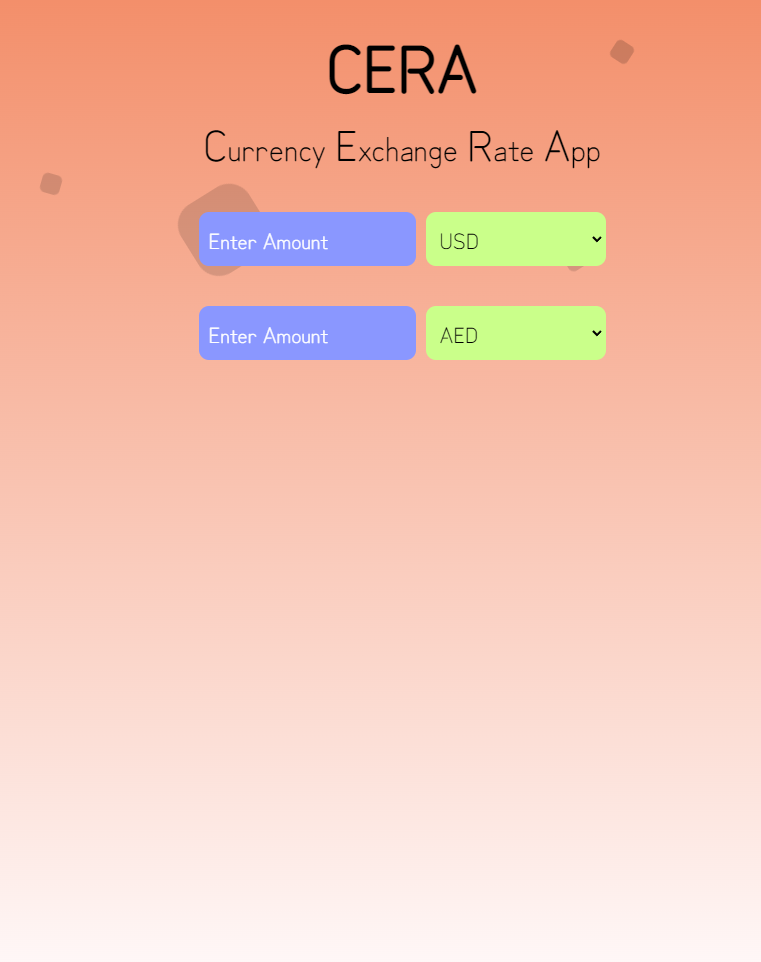
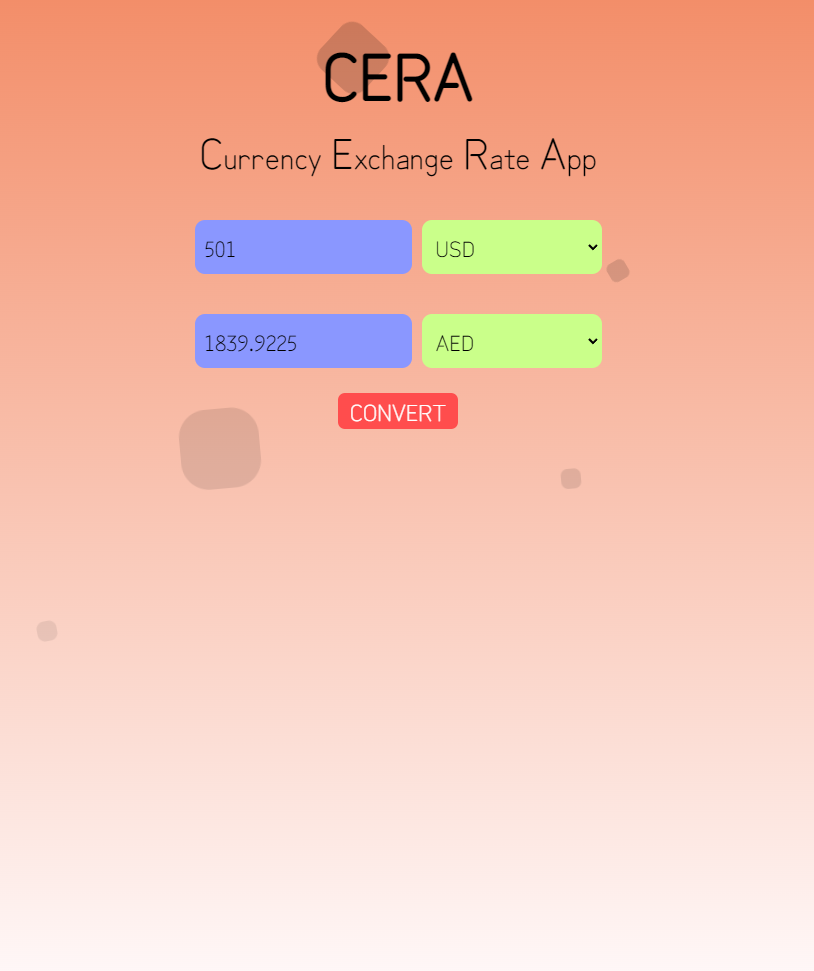
added ability to convert base amount to targeted currency amount

diff --git a/src/Currency.js b/src/Currency.js
@@ -3,6 +3,12 @@ import axios from "axios";
 
 export default function Currency() {
   const [currency, setCurrency] = useState([]);
+  const [baseCurrency, setBaseCurrency] = useState();
+  const [targetCurrency, setTargetCurrency] = useState();
+  const [baseAmount, setBaseAmount] = useState("");
+  const [targetAmount, setTargetAmount] = useState("");
+  const [convertedAmount, setConvertedAmount] = useState("");
+
   async function getCurrencies() {
     //   const getCurrencies = () => {
     await axios
@@ -22,6 +28,40 @@ export default function Currency() {
   useEffect(() => {
     getCurrencies();
   }, []);
+
+  async function convert() {
+    console.log(baseCurrency);
+    console.log(targetCurrency);
+    await axios
+      .get(
+        `https://v6.exchangerate-api.com/v6/0a0fe73c79cc22a52d81823a/pair/${baseCurrency}/${targetCurrency}`
+      )
+      .then((res) => {
+        console.log(res.data.conversion_rate);
+        var rate = Number(res.data.conversion_rate);
+        setConvertedAmount((baseAmount*rate).toFixed(2));
+      })
+      .catch((err) => {
+        console.log(err);
+      });
+  }
+
+  function bCurrency(e) {
+    setBaseCurrency(e.target.value);
+    console.log(baseCurrency);
+  }
+  function cCurrency(e) {
+    setTargetCurrency(e.target.value);
+    console.log(targetCurrency);
+  }
+  function bAmount(e) {
+    setBaseAmount(e.target.value);
+    console.log(baseAmount);
+  }
+  function tAmount(e) {
+    setTargetAmount(e.target.value);
+    console.log(targetAmount);
+  }
 
   return (
     <div>
@@ -44,8 +84,9 @@ export default function Currency() {
           placeholder="Enter Amount"
           type="Number"
           className="sInput"
+          onChange={bAmount.bind(this)}
         ></input>
-        <select name="cars" className="inputOptions">
+        <select className="inputOptions" onChange={bCurrency.bind(this)}>
           <option>Pick a Currency</option>
           {currency.map((c, i) => (
             <option value={c} key={i}>
@@ -55,15 +96,23 @@ export default function Currency() {
         </select>
       </div>
       <div className="converted">
-        <input placeholder="Enter Amount" className="sOutput"></input>
-        <select name="cars" className="convertOptions">
-        <option>Pick a Currency</option>
+        <input
+          placeholder="Enter Amount"
+          className="sOutput"
+          onChange={tAmount.bind(this)}
+          value={convertedAmount}
+        />
+        <select className="convertOptions" onChange={cCurrency.bind(this)}>
+          <option>Pick a Currency</option>
           {currency.map((c, i) => (
             <option value={c} key={i}>
               {c}
             </option>
           ))}
         </select>
+      </div>
+      <div className="convert">
+        <button className="convertBTN" onClick={convert}>CONVERT</button>
       </div>
       {/* <div class="area"> */}
       <ul className="circles">

diff --git a/src/App.css b/src/App.css
@@ -29,15 +29,14 @@
   bottom: -150px;
 }
 
-.circles li:nth-child(1){
+.circles li:nth-child(1) {
   left: 25%;
   width: 80px;
   height: 80px;
   animation-delay: 0s;
 }
 
-
-.circles li:nth-child(2){
+.circles li:nth-child(2) {
   left: 10%;
   width: 20px;
   height: 20px;
@@ -45,14 +44,14 @@
   animation-duration: 12s;
 }
 
-.circles li:nth-child(3){
+.circles li:nth-child(3) {
   left: 70%;
   width: 20px;
   height: 20px;
   animation-delay: 4s;
 }
 
-.circles li:nth-child(4){
+.circles li:nth-child(4) {
   left: 40%;
   width: 60px;
   height: 60px;
@@ -60,7 +59,7 @@
   animation-duration: 18s;
 }
 
-.circles li:nth-child(5){
+.circles li:nth-child(5) {
   left: 65%;
   width: 20px;
   height: 20px;
@@ -120,6 +119,36 @@ body {
   display: flex;
   margin: 10px;
   justify-content: center;
+}
+
+.convert {
+  display: flex;
+  margin: 10px;
+  justify-content: center;
+}
+
+.convertBTN {
+  border: 1px none;
+  border-radius: 7px;
+  padding-left: 12px;
+  padding-right: 12px;
+  font-size: 23px;
+  background-color: #ff4d4d;
+  color: white;
+}
+
+.convertBTN:active{
+  transform: scale(0.85);
+  /* Scaling button to 0.98 to its original size */
+  box-shadow: 6px 4px 44px 2px rgba(0, 0, 0, 0.64);
+  /* Lowering the shadow */
+}
+
+.convertBTN:hover {
+  background-color: white;
+  color: #ff4d4d;
+  font-weight: bold;
+  transition: all 0.3s linear;
 }
 
 .starting,
